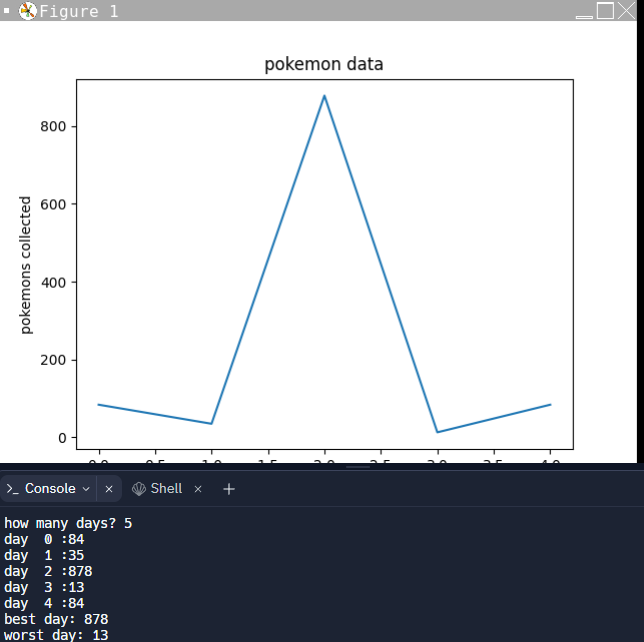
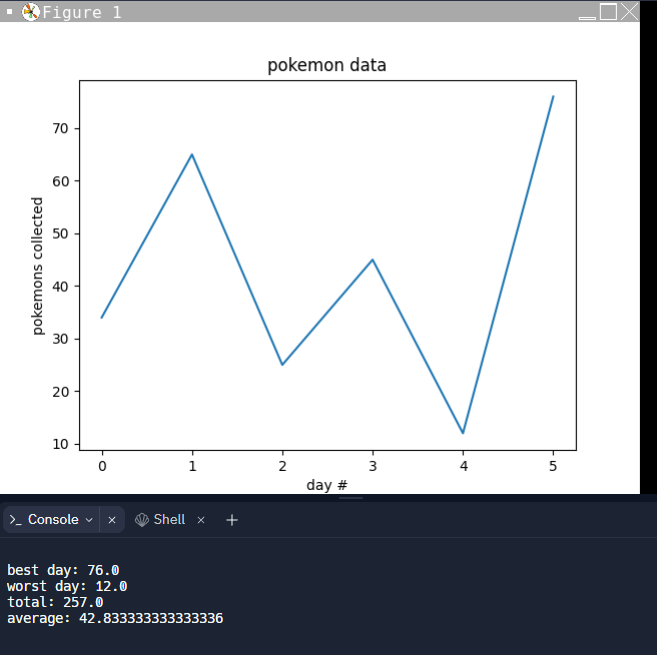
Add files via upload

diff --git a/P2T2_baez.py b/P2T2_baez.py
@@ -1,0 +1,38 @@
+import matplotlib.pyplot as plt
+import turtle 
+
+# collect data
+data=[] #empty list
+# new version - loop and get each day at a time
+#num_days = int(input("how many days?))
+num_days = turtle.numinput("input","how many days? ")
+num_days = int(num_days)
+for day in range(num_days):
+  #print("day ", day, ":", end="")
+  #today = int(input())
+  label = "day#" + str(day) # "day 1" and so on
+  today = turtle.numinput(label, "how many pokemon?")
+  data.append(today) #add it to the end of the list
+
+# put the data in a list(DONE)
+# print min and max
+print()
+print("best day:", max(data))
+print("worst day:", min(data))
+# TODO: total and average
+total = 0
+for num in data:
+  total += num
+  # total is now all the numbers in data, added up
+average = total / num_days
+print("total:", total)
+print("average:", average)
+
+# graph the data
+fig, ax = plt.subplots()
+ax.plot(range(num_days), data)
+plt.title("pokemon data")
+plt.xlabel('day #')
+plt.ylabel('pokemons collected')
+plt.show()
+
